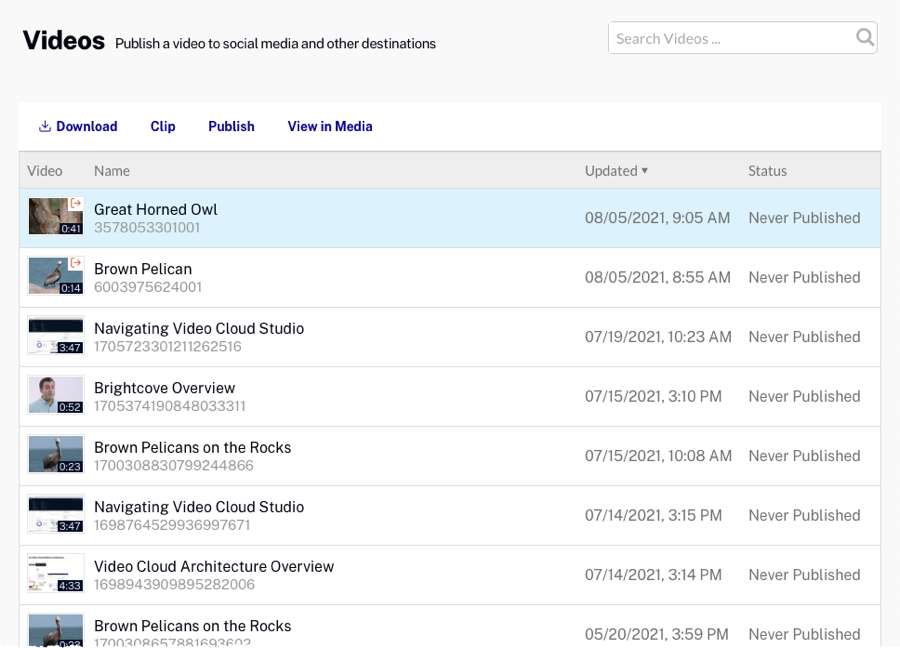
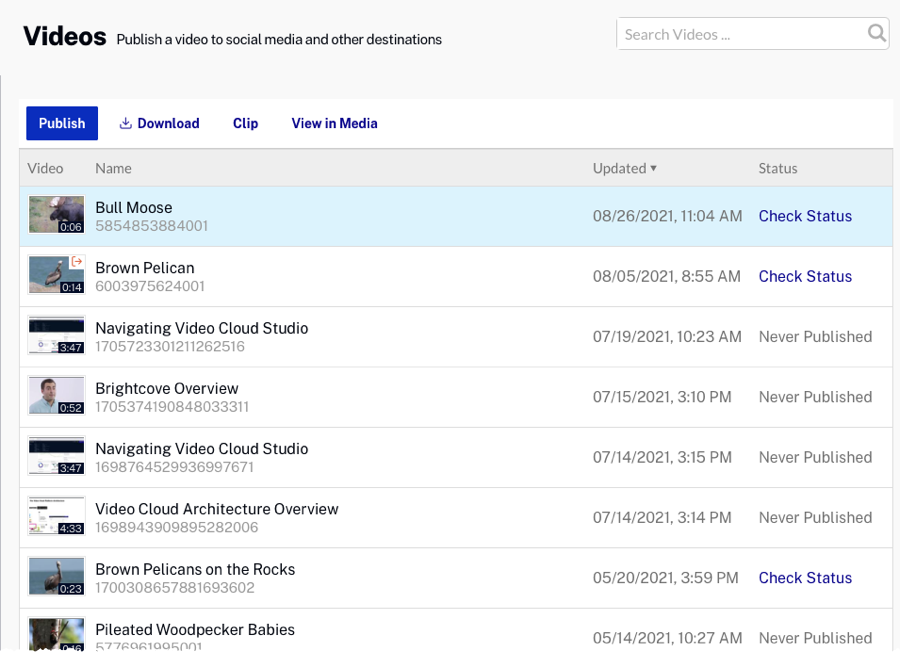
$COMMITMESSAGE

diff --git a/_site/social/getting-started-brightcove-social.html b/_site/social/getting-started-brightcove-social.html
@@ -1507,19 +1507,23 @@ function doGTranslate(lang_pair) {if(lang_pair.value)lang_pair=lang_pair.value;i
   <h1>Getting Started with Brightcove Social</h1>
   <summary>This topic provides an overview of Brightcove Social. Brightcove Social allows you to easily publish videos in your Video Cloud account out to popular social media platforms such as YouTube, Facebook and Twitter.</summary>
   <section class="bcls-section">
-    <p>To access Brightcove Social, login to  Studio. In the primary navigation, click <i data-feather="crosshair"></i> <strong>Social.</strong>  A list of your published videos will be displayed by default.</p>
-    <figure class="bcls-figure"><img class="bcls-image--no-border" alt="" src="/assets/images/s-social-img/node16342-social-home-beacon.png" /></figure>
+    
+    <p>To access Brightcove Social, login to Brightcove Beacon and open the<strong> Social </strong> module in the primary navigation. A list of your published videos will be displayed by default.</p>
+    
+    
+    <figure class="bcls-figure"><img class="bcls-image--no-border" alt="" src="/assets/images/s-social-img/node16342-social-module-beacon.png" /></figure>
+  
     <p>Using Brightcove Social you can:</p>
     <ul>
       <li><a href="#view">View your published videos</a></li>
       <li><a href="#publish">Publish videos to social media platforms</a></li>
+      <li><a href="#publish-live">Publish live videos to social media platforms</a></li>
       <li><a href="#autosync">Automatically sync videos to social media accounts</a></li>
       <li><a href="#create">Create social media publishing destinations</a></li>
       <li><a href="#analytics">Review Social analytics</a></li>
     </ul>
     <aside class="bcls-aside bcls-aside--information">
-      <p>Note: We have encountered some cases where the Social module does not load. Most often this appears to be caused by the user's network blocking the Facebook library: <code translate="no">https://connect.facebook.net/en_US/sdk.js</code>.</p>
-      <p>This is especially common in Firefox, due to the Enhanced Tracking Protection, which blocks the Facebook SDK by default. For information and instructions on adjusting these settings, see <a href="https://support.mozilla.org/en-US/kb/enhanced-tracking-protection-firefox-desktop">Enhanced Tracking Protection in Firefox for desktop</a>.</p>
+      <p>Note: If you are having issues getting the Social module to load, check to ensure your network is not blocking the Facebook library: <code translate="no">https://connect.facebook.net/en_US/sdk.js</code>. This is especially common in Firefox due to the Enhanced Tracking Protection which blocks the Facebook SDK by default. For information and instructions on adjusting these settings, see <a href="https://support.mozilla.org/en-US/kb/enhanced-tracking-protection-firefox-desktop">Enhanced Tracking Protection in Firefox for desktop</a>.</p>
     </aside>
   </section>
   <section class="bcls-section">
@@ -1528,7 +1532,15 @@ function doGTranslate(lang_pair) {if(lang_pair.value)lang_pair=lang_pair.value;i
   </section>
   <section class="bcls-section">
     <h2 id="publish">Publishing videos to social media platforms</h2>
-    <p>To publish a video to a social media platform, click the <strong>Videos</strong> link in the left navigation. For information on publishing videos to a social media account, see <a href="/social/publishing-videos-social-media-platforms.html">Publishing Videos to Social Media Platforms</a>.</p>
+    <p>To publish a video to a social media platform, click the <strong>Videos</strong> link in the left navigation or click <span class="button-blue">Choose videos to Publish</span> at the top of the page. For information on publishing videos to a social media account, see <a href="/social/publishing-videos-social-media-platforms.html">Publishing Videos to Social Media Platforms</a>.</p>
+  </section>
+  <section class="bcls-section">
+    <h2 id="publish-live">Publishing live videos to social media platforms</h2>
+    <p>To publish a live video to a social media platform, click <span class="button-blue">Create Live Event</span> at the top of the page. For information on publishing live videos to a social media account, see one of the following:</p>
+    <ul>
+      <li><a href="/social/publishing-live-event-facebook.html">Publishing a Live Event to Facebook</a></li>
+      <li><a href="publishing-live-event-youtube.html">Publishing a Live Event to YouTube</a></li>
+    </ul>
   </section>
   <section class="bcls-section">
     <h2 id="autosync">Automatically syncing videos to social media accounts</h2>
@@ -1543,6 +1555,7 @@ function doGTranslate(lang_pair) {if(lang_pair.value)lang_pair=lang_pair.value;i
     <p>Social Analytics provides data on how videos shared to social media channels are performing. View the social analytics by clicking <strong>Social Analytics</strong> in the left navigation. For information on social analytics, see <a href="/social/reviewing-social-analytics.html">Reviewing Social Analytics</a>.</p>
   </section>
 </article>
+
 <!-- complete bootstrap layout -->
 <!-- <nav id="more_resources">
   <h2 id="more_resources_header" style="margin-left: 1rem !important;">More Resources</h2>
